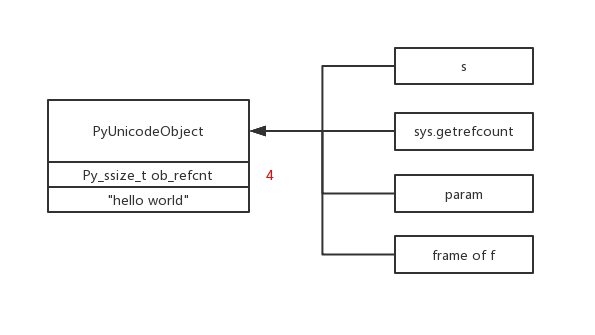
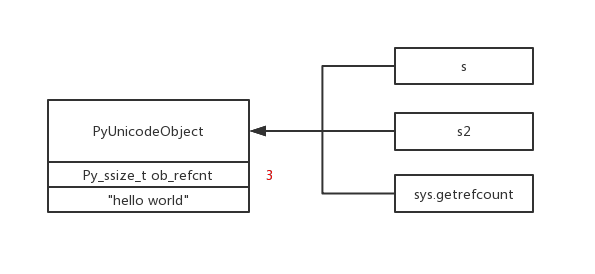
gc v0.4

diff --git a/Interpreter/gc/gc.md b/Interpreter/gc/gc.md
@@ -27,30 +27,25 @@ as [wikipedia](https://en.wikipedia.org/wiki/Reference_counting) says
 
 in python
 
-    import sys
-
-    def f(param):
-    	print(id(param))
-        print(sys.getrefcount(param))
-
 	s = "hello world"
 
-
     >>> id(s)
-    4321629008
+    4346803024
     >>> sys.getrefcount(s)
     2 # one from s, one from parameter of sys.getrefcount
 
 ![refcount1](https://github.com/zpoint/CPython-Internals/blob/master/Interpreter/gc/refcount1.png)
 
-	>>> f(s)
+	>>> s2 = s
+	>>> id(s2)
 	4321629008 # sam as id(s)
-    4 # one more from param of f, one more from python's stack in frame
+    >>> sys.getrefcount(s)
+    3 # one more from s2
 
 ![refcount2](https://github.com/zpoint/CPython-Internals/blob/master/Interpreter/gc/refcount2.png)
 
 
-if we compile the script
+let's compile a script
 
     s = []
     s2 = s
@@ -68,8 +63,103 @@ the output is
              10 LOAD_CONST               0 (None)
              12 RETURN_VALUE
 
+in the first line `s = []`
 
+`0 BUILD_LIST               0` simply create a new list, initialize it's reference count to 1, and push it onto the stack
 
+`2 STORE_NAME               0`
+
+    case TARGET(STORE_NAME): {
+    	/* name is str object with value 's'
+           ns is the local namespace
+           v is the previous created list object
+        */
+        PyObject *name = GETITEM(names, oparg);
+        PyObject *v = POP();
+        PyObject *ns = f->f_locals;
+        int err;
+        if (ns == NULL) {
+            PyErr_Format(PyExc_SystemError,
+                         "no locals found when storing %R", name);
+            Py_DECREF(v);
+            goto error;
+        }
+        if (PyDict_CheckExact(ns))
+        	/* here, reference count of v is 1
+        	   PyDict_SetItem will add 's' to the local namespace with value 'v'
+               since ns is of type dict, the add operation will increment the reference count of 's' and 'v'
+           */
+            err = PyDict_SetItem(ns, name, v);
+            /* after add, reference count of v becomes 2 */
+        else
+            err = PyObject_SetItem(ns, name, v);
+        Py_DECREF(v);
+        /* after Py_DECREF, reference count of v becomes 1 */
+        if (err != 0)
+            goto error;
+        DISPATCH();
+    }
+
+before execute line 2 `s2 = s`, reference count of the newly created list object is 1
+
+`4 LOAD_NAME                0` gets the value stores in local namespace with key 's' ---- the newly created, increment it's reference count, and push it onto the stack
+
+until now, the reference count of the newly created list object is 2(one from 's', one from the stack)
+
+`6 STORE_NAME               1` executes the above code again, the difference is the name now becomes 's2', after this opcode, reference count of the list becomes 2
+
+`8 DELETE_NAME              0 (s)`
+
+    case TARGET(DELETE_NAME): {
+    	/* name here is 's'
+           ns is the local namespace
+        */
+        PyObject *name = GETITEM(names, oparg);
+        PyObject *ns = f->f_locals;
+        int err;
+        if (ns == NULL) {
+            PyErr_Format(PyExc_SystemError,
+                         "no locals when deleting %R", name);
+            goto error;
+        }
+        /* until now, reference count of the list object is 2
+        /* find the location with key 's', mark the indices as DKIX_DUMMY,
+        set the entries key and value to NULL, decrement the reference count of key and value
+        */
+        err = PyObject_DelItem(ns, name);
+        /* reach here, reference count of the list object becomes 1 */
+        if (err != 0) {
+            format_exc_check_arg(PyExc_NameError,
+                                 NAME_ERROR_MSG,
+                                 name);
+            goto error;
+        }
+        DISPATCH();
+    }
+
+if the reference count becomes 0, the deallocate procedure will be triggered imeediately
+
+	/* cpython/Include/object.h */
+    static inline void _Py_DECREF(const char *filename, int lineno,
+                                  PyObject *op)
+    {
+        _Py_DEC_REFTOTAL;
+        if (--op->ob_refcnt != 0) {
+    #ifdef Py_REF_DEBUG
+            if (op->ob_refcnt < 0) {
+                _Py_NegativeRefcount(filename, lineno, op);
+            }
+    #endif
+        }
+        else {
+        	/* // finds the descructor
+            destructor dealloc = Py_TYPE(op)->tp_dealloc;
+            calls the founded destructor
+            (*dealloc)(op);
+            */
+            _Py_Dealloc(op);
+        }
+    }
 
 ##### generational garbage collection
 
